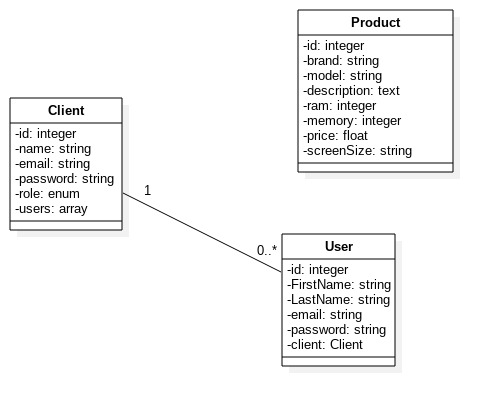
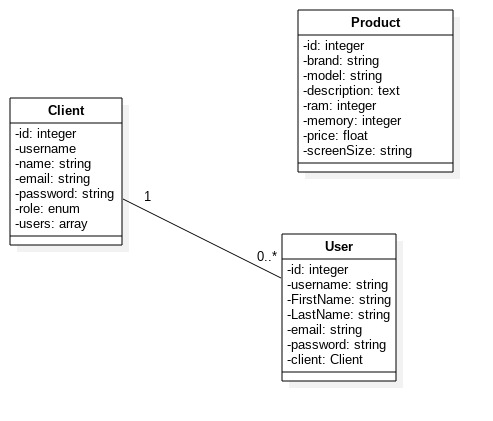
User CRUD done

diff --git a/src/Entity/User.php b/src/Entity/User.php
@@ -1,0 +1,110 @@
+<?php
+
+namespace App\Entity;
+
+use ApiPlatform\Core\Annotation\ApiResource;
+use Doctrine\ORM\Mapping as ORM;
+
+/**
+ * @ApiResource()
+ * @ORM\Entity(repositoryClass="App\Repository\UserRepository")
+ */
+class User
+{
+    /**
+     * @ORM\Id()
+     * @ORM\GeneratedValue()
+     * @ORM\Column(type="integer")
+     */
+    private $id;
+
+    /**
+     * @ORM\Column(type="string", length=50)
+     */
+    private $username;
+
+    /**
+     * @ORM\Column(type="string", length=50)
+     */
+    private $firstName;
+
+    /**
+     * @ORM\Column(type="string", length=50)
+     */
+    private $LastName;
+
+    /**
+     * @ORM\Column(type="string", length=50)
+     */
+    private $email;
+
+    /**
+     * @ORM\Column(type="string", length=60)
+     */
+    private $password;
+
+    public function getId()
+    {
+        return $this->id;
+    }
+
+    public function getUsername(): ?string
+    {
+        return $this->username;
+    }
+
+    public function setUsername(string $username): self
+    {
+        $this->username = $username;
+
+        return $this;
+    }
+
+    public function getFirstName(): ?string
+    {
+        return $this->firstName;
+    }
+
+    public function setFirstName(string $firstName): self
+    {
+        $this->firstName = $firstName;
+
+        return $this;
+    }
+
+    public function getLastName(): ?string
+    {
+        return $this->LastName;
+    }
+
+    public function setLastName(string $LastName): self
+    {
+        $this->LastName = $LastName;
+
+        return $this;
+    }
+
+    public function getEmail(): ?string
+    {
+        return $this->email;
+    }
+
+    public function setEmail(string $email): self
+    {
+        $this->email = $email;
+
+        return $this;
+    }
+
+    public function getPassword(): ?string
+    {
+        return $this->password;
+    }
+
+    public function setPassword(string $password): self
+    {
+        $this->password = $password;
+
+        return $this;
+    }
+}

diff --git a/src/Repository/UserRepository.php b/src/Repository/UserRepository.php
@@ -1,0 +1,50 @@
+<?php
+
+namespace App\Repository;
+
+use App\Entity\User;
+use Doctrine\Bundle\DoctrineBundle\Repository\ServiceEntityRepository;
+use Symfony\Bridge\Doctrine\RegistryInterface;
+
+/**
+ * @method User|null find($id, $lockMode = null, $lockVersion = null)
+ * @method User|null findOneBy(array $criteria, array $orderBy = null)
+ * @method User[]    findAll()
+ * @method User[]    findBy(array $criteria, array $orderBy = null, $limit = null, $offset = null)
+ */
+class UserRepository extends ServiceEntityRepository
+{
+    public function __construct(RegistryInterface $registry)
+    {
+        parent::__construct($registry, User::class);
+    }
+
+//    /**
+//     * @return User[] Returns an array of User objects
+//     */
+    /*
+    public function findByExampleField($value)
+    {
+        return $this->createQueryBuilder('u')
+            ->andWhere('u.exampleField = :val')
+            ->setParameter('val', $value)
+            ->orderBy('u.id', 'ASC')
+            ->setMaxResults(10)
+            ->getQuery()
+            ->getResult()
+        ;
+    }
+    */
+
+    /*
+    public function findOneBySomeField($value): ?User
+    {
+        return $this->createQueryBuilder('u')
+            ->andWhere('u.exampleField = :val')
+            ->setParameter('val', $value)
+            ->getQuery()
+            ->getOneOrNullResult()
+        ;
+    }
+    */
+}
